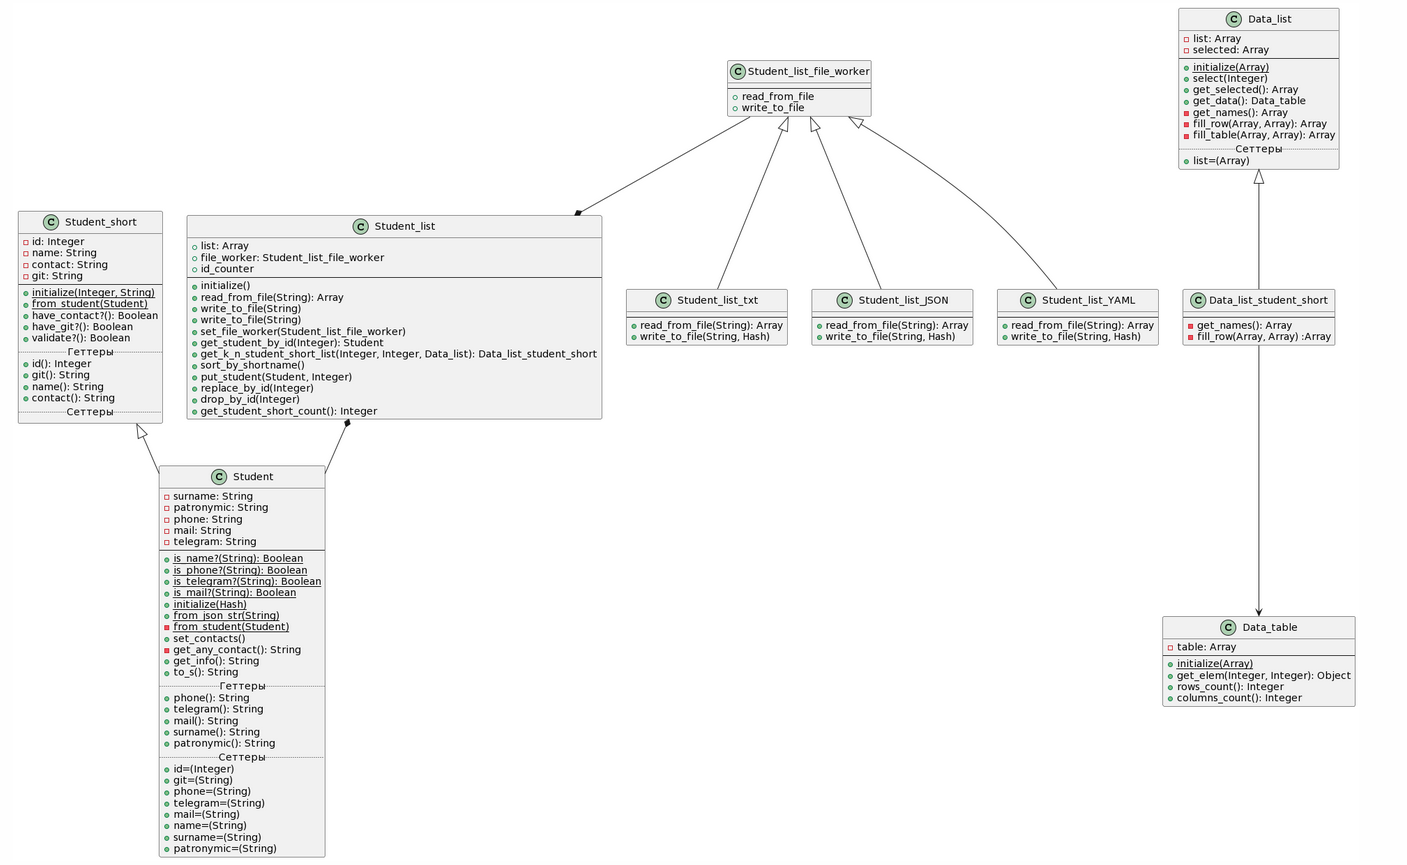
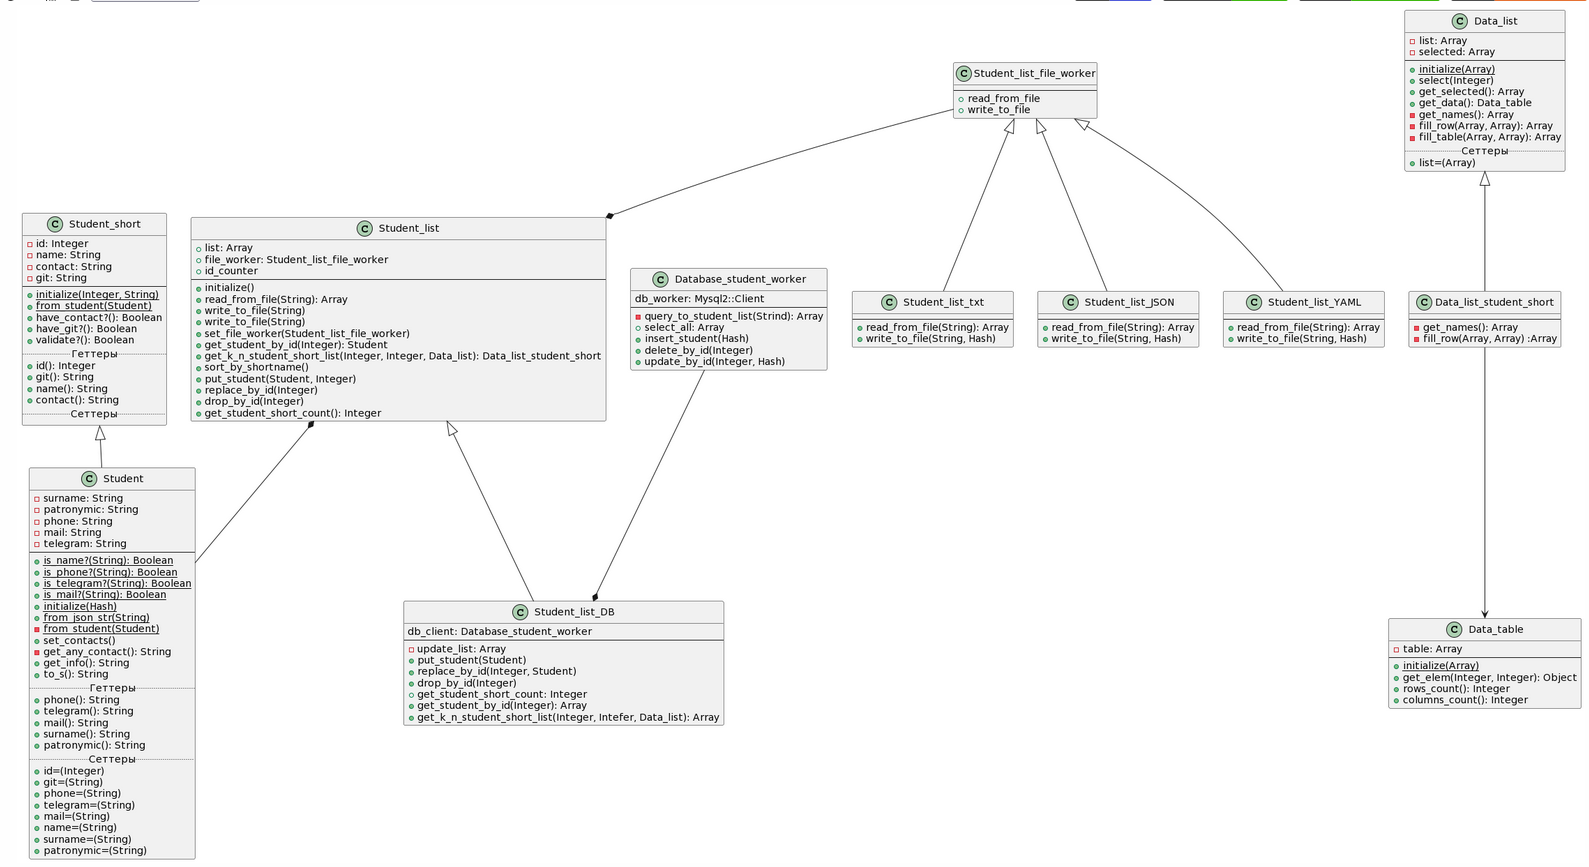
класс для работы с БД, класс student_list_DB

diff --git a/Lab2/Student/database/class/database_student_worker.rb b/Lab2/Student/database/class/database_student_worker.rb
@@ -1,0 +1,43 @@
+# frozen_string_literal: true
+require 'mysql2'
+
+class Database_student_worker
+  def initialize(options={})
+    @db_client = Mysql2::Client.new(options)
+  end
+
+  #вернуть результат запроса в виде Array
+  protected def query_to_student_list(sql_query)
+    student_list = []
+    @db_client.query(sql_query).each do |row|
+      student_list << Student.new(row)
+    end
+    student_list
+  end
+
+  def select_all
+    query_to_student_list("SELECT * FROM students")
+  end
+
+  def select_by_id(id)
+    query_to_student_list("SELECT * FROM students WHERE id=#{id}")[0]
+  end
+
+  def insert_student(args)
+    @db_client.query("INSERT INTO students(surname, name, patronymic, phone, telegram, mail, git) VALUES
+		(#{args['surname']}, #{args['name']}, #{args['patronymic']},
+    #{args['phone']}, #{args['telegram']}, #{args['mail']}, #{args['git']})")
+  end
+
+  def delete_by_id(id)
+    @db_client.query("DELETE FROM students WHERE id = #{id}")
+  end
+
+  def update_by_id(id, args)
+    @db_client.query("UPDATE students SET surname=#{args['surname']}, name = #{args['name']},
+            patronymic=#{args['patronymic']}, phone=#{args['phone']},
+            telegram=#{args['telegram']}, mail=#{args['mail']}, git=#{args['git']}
+            WHERE id=#{id}")
+  end
+
+end

diff --git a/Lab2/Student/Lists_models/student_list_db.rb b/Lab2/Student/Lists_models/student_list_db.rb
@@ -1,0 +1,51 @@
+# frozen_string_literal: true
+require_relative 'student_list'
+require_relative '../database/class/database_student_worker'
+require 'mysql2'
+require 'yaml'
+
+class Student_list_DB < Student_list
+  def initialize(options = {})
+    @db_worker = Database_student_worker.new(options)
+    update_list
+  end
+
+  protected def update_list
+    self.list = @db_worker.select_all
+  end
+
+  def get_student_by_id(id)
+    update_list
+    super
+  end
+
+  def get_k_n_student_short_list(k, n, data_list = nil)
+    update_list
+    super
+  end
+
+  def put_student(student)
+    @db_worker.insert_student(student.to_hash)
+    update_list
+  end
+
+  def replace_by_id(id, student)
+    @db_worker.update_by_id(id, student.to_hash)
+    update_list
+  end
+
+  def drop_by_id(id)
+    @db_worker.delete_by_id(id)
+    update_list
+  end
+
+  def get_student_short_count
+    update_list
+    super
+  end
+
+  def list
+    update_list
+    @list
+  end
+end
